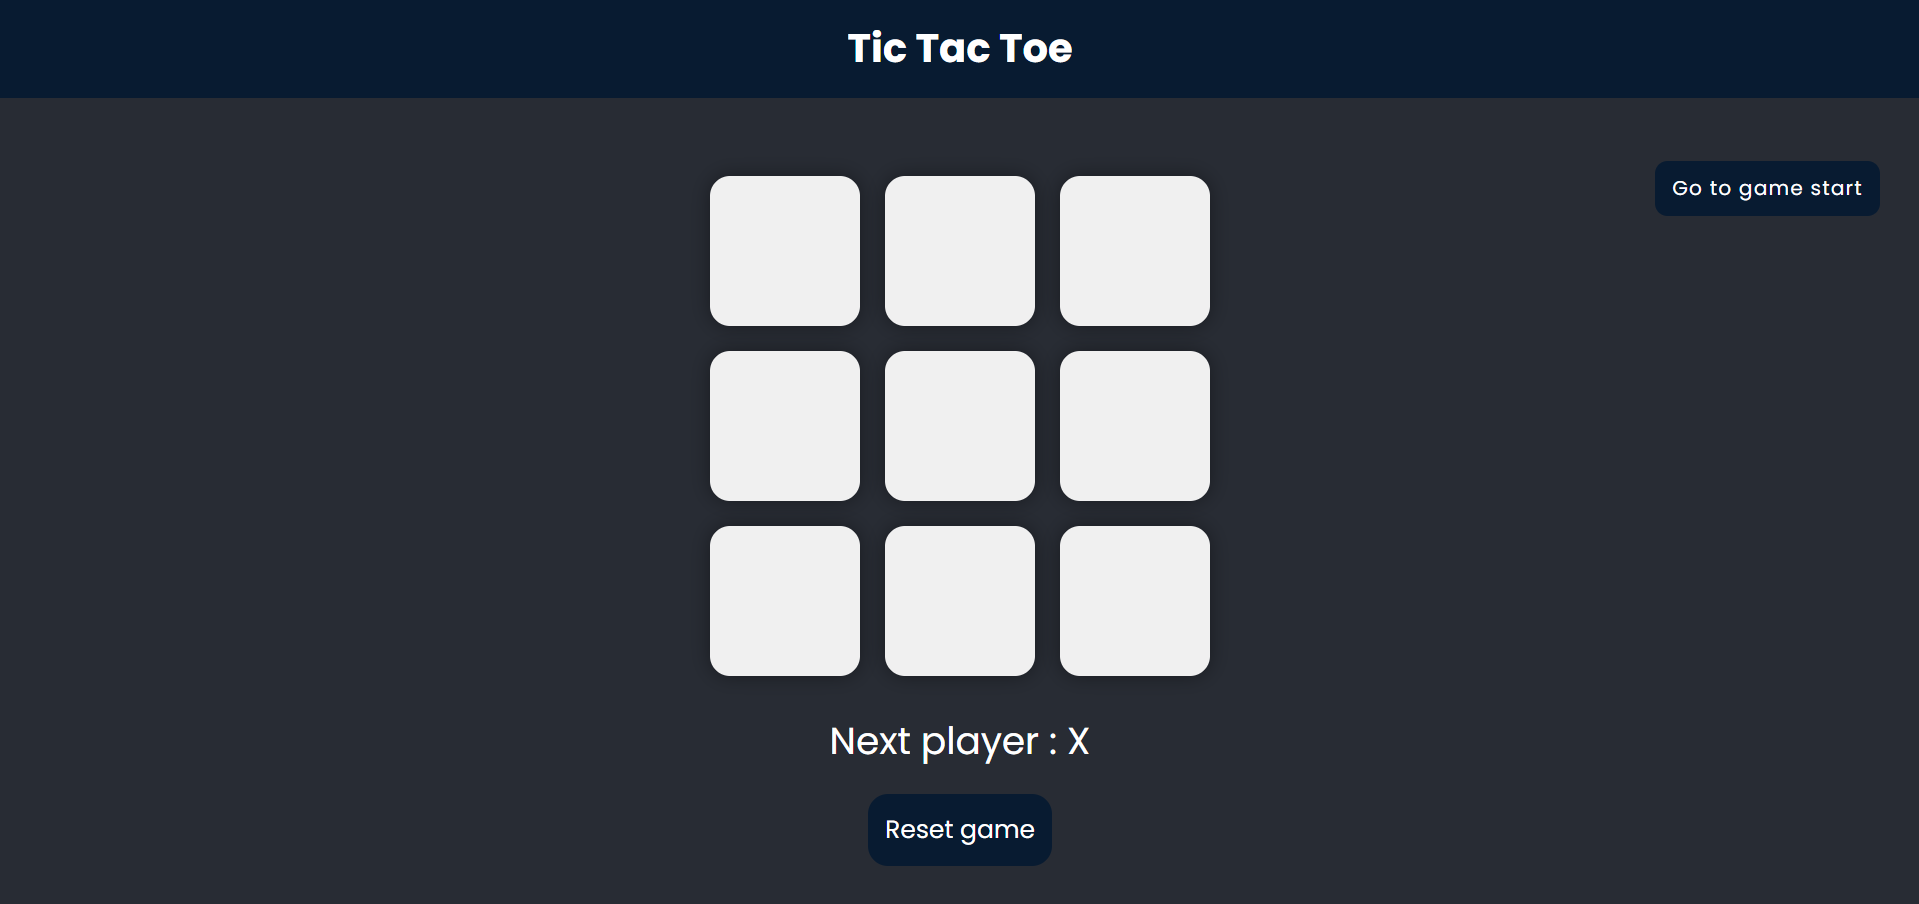
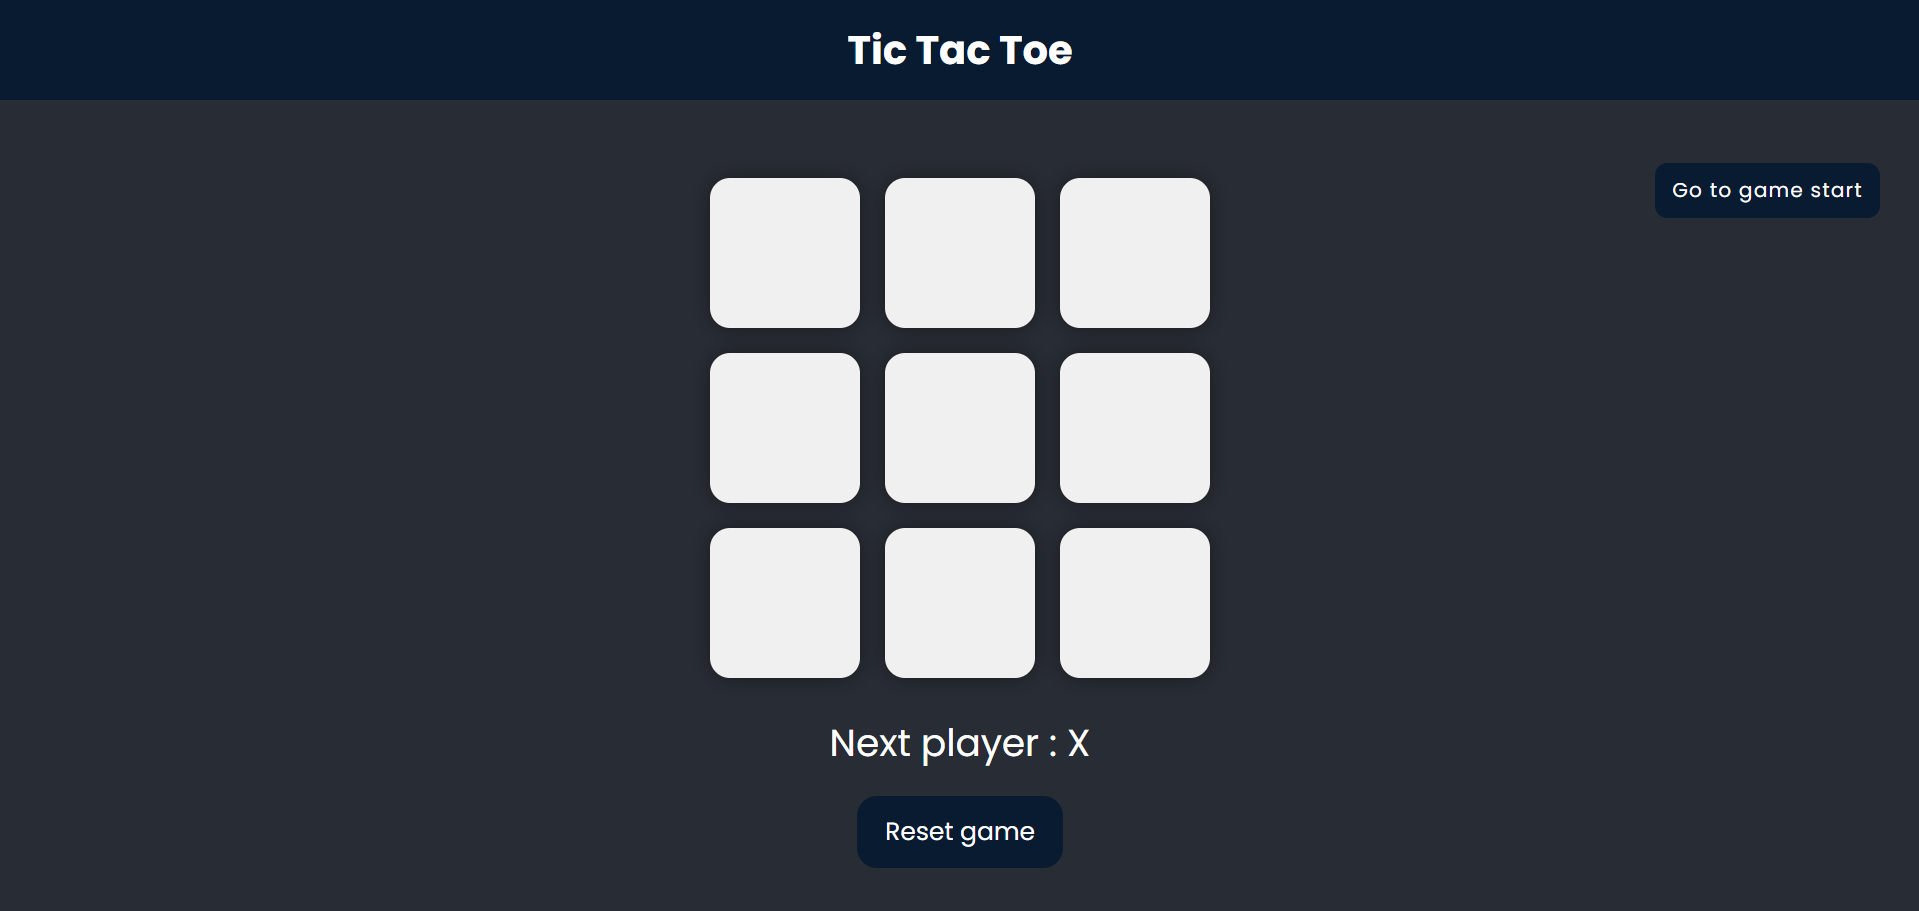
Added improvements

diff --git a/src/index.js b/src/index.js
@@ -2,16 +2,10 @@ import React from 'react';
 import ReactDOM from 'react-dom/client';
 import './index.css';
 import App from './App';
-import reportWebVitals from './reportWebVitals';
 
 const root = ReactDOM.createRoot(document.getElementById('root'));
 root.render(
   <React.StrictMode>
     <App />
   </React.StrictMode>
-);
-
-// If you want to start measuring performance in your app, pass a function
-// to log results (for example: reportWebVitals(console.log))
-// or send to an analytics endpoint. Learn more: https://bit.ly/CRA-vitals
-reportWebVitals();
+)

diff --git a/src/App.css b/src/App.css
@@ -73,7 +73,7 @@
 
 .reset-btn button,
 .new-game-btn button {
-  padding: 0.85rem;
+  padding: 0.85rem 1.4rem;
   font-size: 1.25rem;
   background: #081b31;
   color: #fff;
@@ -93,6 +93,7 @@
   justify-content: center;
   color: #fff;
   margin-top: 30px;
+  text-align: center;
 }
 
 /* history */
